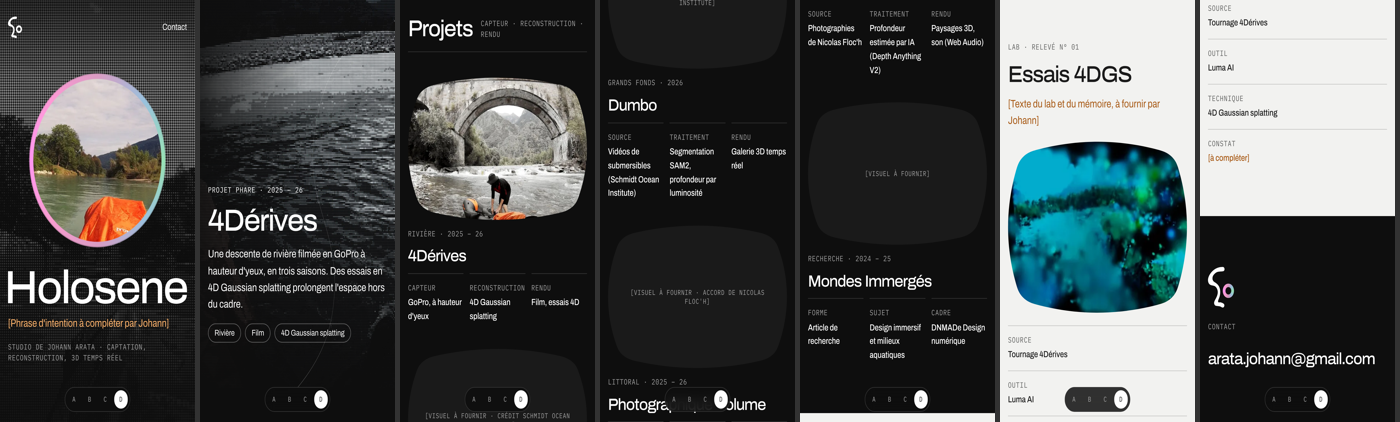
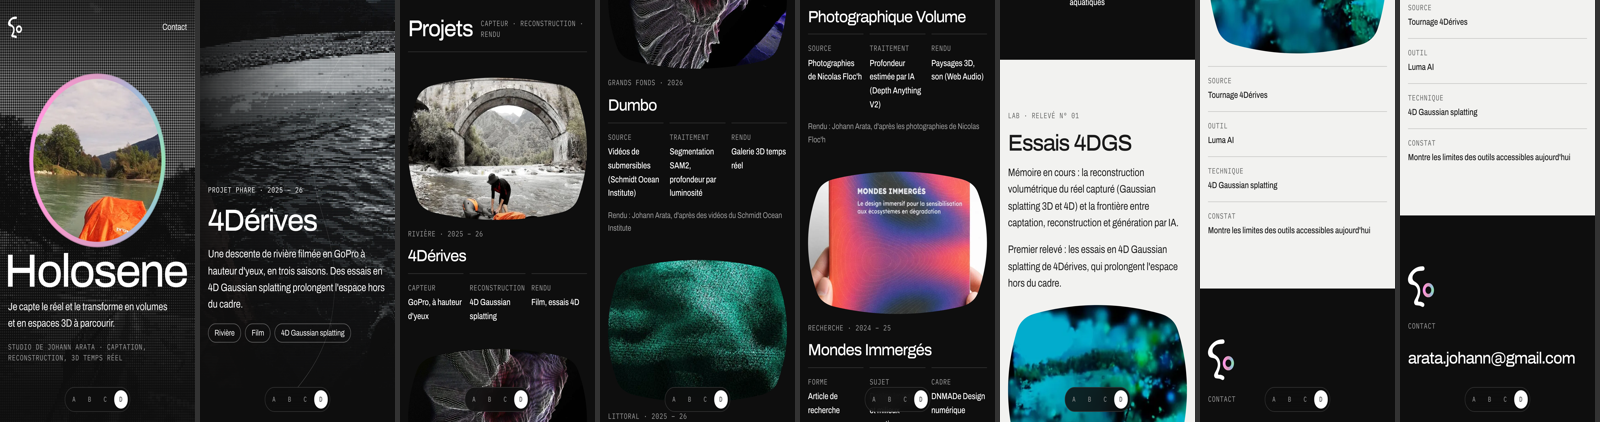
Direction D : visuels de Dumbo, Photographique Volume et Mondes Immergés (rendus de Johann, crédités), textes repris du portfolio
- accroche : « Je capte le réel et le transforme en volumes et en espaces 3D à parcourir. »
- lab : sujet du mémoire et constat des essais 4DGS, repris du brief et du portfolio
- lentille remontée (ne touche plus le logotype)

Claude-Session: https://claude.ai/code/session_01LKGoSoD4kwmFxj7NFBG2aN

diff --git a/design/directions/comparateur.html b/design/directions/comparateur.html
@@ -155,7 +155,7 @@ body { background: var(--deep); color: var(--grey-light); font: 400 17px/1.55 va
 .D .hero .bottom { position: absolute; left: 0; right: 0; bottom: 92px; z-index: 3; display: grid; gap: 18px; }
 .D .hero .bottom img { width: 100%; display: block; }
 .D .hero .meta { display: flex; justify-content: space-between; gap: 16px; align-items: end; }
-.D .hero .meta p.todo { max-width: 34ch; font-size: 1.05rem; }
+.D .hero .meta p.intent { max-width: 34ch; font-size: 1.05rem; color: #fff; }
 
 /* 2. projet phare : plein écran cinéma (B) */
 .D .feature { position: relative; min-height: 92svh; display: flex; align-items: flex-end; overflow: hidden; }
@@ -181,6 +181,8 @@ body { background: var(--deep); color: var(--grey-light); font: 400 17px/1.55 va
 .D .spec { display: grid; grid-template-columns: repeat(3, minmax(0, 1fr)); gap: 12px; }
 .D .spec div { border-top: 1px solid #333; padding-top: 8px; min-width: 0; }
 .D .spec b { display: block; font-weight: 500; font-size: 14px; color: #fff; }
+.D .credit { font-size: 13px; color: #a0a0a0; }
+.D .lab .intro p:not(.lbl) { max-width: 46ch; }
 
 /* 4. lab : version claire, relevé (C) */
 .D .lab { background: #f2f2f0; color: #1a1a1a; padding-block: 120px; }
@@ -215,7 +217,7 @@ body { background: var(--deep); color: var(--grey-light); font: 400 17px/1.55 va
     <header class="wrap"><img src="img/monogram-white.svg" alt="Holosene"><nav class="navd"><span>Projets</span><span>Lab</span><span>Studio</span><span>Contact</span></nav></header>
     <div class="bottom wrap">
       <img src="img/logotype-white.svg" alt="Holosene">
-      <div class="meta"><p class="todo">[Phrase d'intention à compléter par Johann]</p><p class="lbl">Studio de Johann Arata · captation, reconstruction, 3D temps réel</p></div>
+      <div class="meta"><p class="intent">Je capte le réel et le transforme en volumes et en espaces 3D à parcourir.</p><p class="lbl">Studio de Johann Arata · captation, reconstruction, 3D temps réel</p></div>
     </div>
   </section>
 
@@ -235,24 +237,24 @@ body { background: var(--deep); color: var(--grey-light); font: 400 17px/1.55 va
     <div class="grid">
       <article class="card"><div class="pic sq" style="background-image:url(img/pont.webp)"></div><p class="lbl">Rivière · 2025 – 26</p><h3 class="disp">4Dérives</h3>
         <div class="spec"><div><span class="lbl">Capteur</span><b>GoPro, à hauteur d'yeux</b></div><div><span class="lbl">Reconstruction</span><b>4D Gaussian splatting</b></div><div><span class="lbl">Rendu</span><b>Film, essais 4D</b></div></div></article>
-      <article class="card"><div class="pic sq"><span>[Visuel à fournir · crédit Schmidt Ocean Institute]</span></div><p class="lbl">Grands fonds · 2026</p><h3 class="disp">Dumbo</h3>
-        <div class="spec"><div><span class="lbl">Source</span><b>Vidéos de submersibles (Schmidt Ocean Institute)</b></div><div><span class="lbl">Traitement</span><b>Segmentation SAM2, profondeur par luminosité</b></div><div><span class="lbl">Rendu</span><b>Galerie 3D temps réel</b></div></div></article>
-      <article class="card"><div class="pic sq"><span>[Visuel à fournir · accord de Nicolas Floc'h]</span></div><p class="lbl">Littoral · 2025 – 26</p><h3 class="disp">Photographique Volume</h3>
-        <div class="spec"><div><span class="lbl">Source</span><b>Photographies de Nicolas Floc'h</b></div><div><span class="lbl">Traitement</span><b>Profondeur estimée par IA (Depth Anything V2)</b></div><div><span class="lbl">Rendu</span><b>Paysages 3D, son (Web Audio)</b></div></div></article>
-      <article class="card"><div class="pic sq"><span>[Visuel à fournir]</span></div><p class="lbl">Recherche · 2024 – 25</p><h3 class="disp">Mondes Immergés</h3>
+      <article class="card"><div class="pic sq" style="background-image:url(img/dumbo-volume.webp)"></div><p class="lbl">Grands fonds · 2026</p><h3 class="disp">Dumbo</h3>
+        <div class="spec"><div><span class="lbl">Source</span><b>Vidéos de submersibles (Schmidt Ocean Institute)</b></div><div><span class="lbl">Traitement</span><b>Segmentation SAM2, profondeur par luminosité</b></div><div><span class="lbl">Rendu</span><b>Galerie 3D temps réel</b></div></div><p class="credit">Rendu : Johann Arata, d'après des vidéos du Schmidt Ocean Institute</p></article>
+      <article class="card"><div class="pic sq" style="background-image:url(img/pv-volume.webp)"></div><p class="lbl">Littoral · 2025 – 26</p><h3 class="disp">Photographique Volume</h3>
+        <div class="spec"><div><span class="lbl">Source</span><b>Photographies de Nicolas Floc'h</b></div><div><span class="lbl">Traitement</span><b>Profondeur estimée par IA (Depth Anything V2)</b></div><div><span class="lbl">Rendu</span><b>Paysages 3D, son (Web Audio)</b></div></div><p class="credit">Rendu : Johann Arata, d'après les photographies de Nicolas Floc'h</p></article>
+      <article class="card"><div class="pic sq" style="background-image:url(img/mondes-immerges.webp);background-position:center 30%"></div><p class="lbl">Recherche · 2024 – 25</p><h3 class="disp">Mondes Immergés</h3>
         <div class="spec"><div><span class="lbl">Forme</span><b>Article de recherche</b></div><div><span class="lbl">Sujet</span><b>Design immersif et milieux aquatiques</b></div><div><span class="lbl">Cadre</span><b>DNMADe Design numérique</b></div></div></article>
     </div>
   </section>
 
   <section class="lab">
     <div class="inner wrap">
-      <div class="intro"><p class="lbl">Lab · relevé n° 01</p><h2 class="disp">Essais 4DGS</h2><p class="todo">[Texte du lab et du mémoire, à fournir par Johann]</p></div>
+      <div class="intro"><p class="lbl">Lab · relevé n° 01</p><h2 class="disp">Essais 4DGS</h2><p>Mémoire en cours : la reconstruction volumétrique du réel capturé (Gaussian splatting 3D et 4D) et la frontière entre captation, reconstruction et génération par IA.</p><p>Premier relevé : les essais en 4D Gaussian splatting de 4Dérives, qui prolongent l'espace hors du cadre.</p></div>
       <div class="win sq" role="img" aria-label="Essai de 4D Gaussian splatting sur 4Dérives"></div>
       <div class="data">
         <div><span class="lbl">Source</span><b>Tournage 4Dérives</b></div>
         <div><span class="lbl">Outil</span><b>Luma AI</b></div>
         <div><span class="lbl">Technique</span><b>4D Gaussian splatting</b></div>
-        <div><span class="lbl">Constat</span><b class="todo">[à compléter]</b></div>
+        <div><span class="lbl">Constat</span><b>Montre les limites des outils accessibles aujourd'hui</b></div>
       </div>
     </div>
   </section>

diff --git a/design/directions/d-synthese.html b/design/directions/d-synthese.html
@@ -22,7 +22,7 @@
 .D .hero .bottom { position: absolute; left: 0; right: 0; bottom: 92px; z-index: 3; display: grid; gap: 18px; }
 .D .hero .bottom img { width: 100%; display: block; }
 .D .hero .meta { display: flex; justify-content: space-between; gap: 16px; align-items: end; }
-.D .hero .meta p.todo { max-width: 34ch; font-size: 1.05rem; }
+.D .hero .meta p.intent { max-width: 34ch; font-size: 1.05rem; color: #fff; }
 
 /* 2. projet phare : plein écran cinéma (B) */
 .D .feature { position: relative; min-height: 92svh; display: flex; align-items: flex-end; overflow: hidden; }
@@ -48,6 +48,8 @@
 .D .spec { display: grid; grid-template-columns: repeat(3, minmax(0, 1fr)); gap: 12px; }
 .D .spec div { border-top: 1px solid #333; padding-top: 8px; min-width: 0; }
 .D .spec b { display: block; font-weight: 500; font-size: 14px; color: #fff; }
+.D .credit { font-size: 13px; color: #a0a0a0; }
+.D .lab .intro p:not(.lbl) { max-width: 46ch; }
 
 /* 4. lab : version claire, relevé (C) */
 .D .lab { background: #f2f2f0; color: #1a1a1a; padding-block: 120px; }
@@ -82,7 +84,7 @@
     <header class="wrap"><img src="../assets/monogram-white.svg" alt="Holosene"><nav class="navd"><span>Projets</span><span>Lab</span><span>Studio</span><span>Contact</span></nav></header>
     <div class="bottom wrap">
       <img src="../assets/logotype-white.svg" alt="Holosene">
-      <div class="meta"><p class="todo">[Phrase d'intention à compléter par Johann]</p><p class="lbl">Studio de Johann Arata · captation, reconstruction, 3D temps réel</p></div>
+      <div class="meta"><p class="intent">Je capte le réel et le transforme en volumes et en espaces 3D à parcourir.</p><p class="lbl">Studio de Johann Arata · captation, reconstruction, 3D temps réel</p></div>
     </div>
   </section>
 
@@ -102,24 +104,24 @@
     <div class="grid">
       <article class="card"><div class="pic sq" style="background-image:url(../assets/pont.webp)"></div><p class="lbl">Rivière · 2025 – 26</p><h3 class="disp">4Dérives</h3>
         <div class="spec"><div><span class="lbl">Capteur</span><b>GoPro, à hauteur d'yeux</b></div><div><span class="lbl">Reconstruction</span><b>4D Gaussian splatting</b></div><div><span class="lbl">Rendu</span><b>Film, essais 4D</b></div></div></article>
-      <article class="card"><div class="pic sq"><span>[Visuel à fournir · crédit Schmidt Ocean Institute]</span></div><p class="lbl">Grands fonds · 2026</p><h3 class="disp">Dumbo</h3>
-        <div class="spec"><div><span class="lbl">Source</span><b>Vidéos de submersibles (Schmidt Ocean Institute)</b></div><div><span class="lbl">Traitement</span><b>Segmentation SAM2, profondeur par luminosité</b></div><div><span class="lbl">Rendu</span><b>Galerie 3D temps réel</b></div></div></article>
-      <article class="card"><div class="pic sq"><span>[Visuel à fournir · accord de Nicolas Floc'h]</span></div><p class="lbl">Littoral · 2025 – 26</p><h3 class="disp">Photographique Volume</h3>
-        <div class="spec"><div><span class="lbl">Source</span><b>Photographies de Nicolas Floc'h</b></div><div><span class="lbl">Traitement</span><b>Profondeur estimée par IA (Depth Anything V2)</b></div><div><span class="lbl">Rendu</span><b>Paysages 3D, son (Web Audio)</b></div></div></article>
-      <article class="card"><div class="pic sq"><span>[Visuel à fournir]</span></div><p class="lbl">Recherche · 2024 – 25</p><h3 class="disp">Mondes Immergés</h3>
+      <article class="card"><div class="pic sq" style="background-image:url(../assets/dumbo-volume.webp)"></div><p class="lbl">Grands fonds · 2026</p><h3 class="disp">Dumbo</h3>
+        <div class="spec"><div><span class="lbl">Source</span><b>Vidéos de submersibles (Schmidt Ocean Institute)</b></div><div><span class="lbl">Traitement</span><b>Segmentation SAM2, profondeur par luminosité</b></div><div><span class="lbl">Rendu</span><b>Galerie 3D temps réel</b></div></div><p class="credit">Rendu : Johann Arata, d'après des vidéos du Schmidt Ocean Institute</p></article>
+      <article class="card"><div class="pic sq" style="background-image:url(../assets/pv-volume.webp)"></div><p class="lbl">Littoral · 2025 – 26</p><h3 class="disp">Photographique Volume</h3>
+        <div class="spec"><div><span class="lbl">Source</span><b>Photographies de Nicolas Floc'h</b></div><div><span class="lbl">Traitement</span><b>Profondeur estimée par IA (Depth Anything V2)</b></div><div><span class="lbl">Rendu</span><b>Paysages 3D, son (Web Audio)</b></div></div><p class="credit">Rendu : Johann Arata, d'après les photographies de Nicolas Floc'h</p></article>
+      <article class="card"><div class="pic sq" style="background-image:url(../assets/mondes-immerges.webp);background-position:center 30%"></div><p class="lbl">Recherche · 2024 – 25</p><h3 class="disp">Mondes Immergés</h3>
         <div class="spec"><div><span class="lbl">Forme</span><b>Article de recherche</b></div><div><span class="lbl">Sujet</span><b>Design immersif et milieux aquatiques</b></div><div><span class="lbl">Cadre</span><b>DNMADe Design numérique</b></div></div></article>
     </div>
   </section>
 
   <section class="lab">
     <div class="inner wrap">
-      <div class="intro"><p class="lbl">Lab · relevé n° 01</p><h2 class="disp">Essais 4DGS</h2><p class="todo">[Texte du lab et du mémoire, à fournir par Johann]</p></div>
+      <div class="intro"><p class="lbl">Lab · relevé n° 01</p><h2 class="disp">Essais 4DGS</h2><p>Mémoire en cours : la reconstruction volumétrique du réel capturé (Gaussian splatting 3D et 4D) et la frontière entre captation, reconstruction et génération par IA.</p><p>Premier relevé : les essais en 4D Gaussian splatting de 4Dérives, qui prolongent l'espace hors du cadre.</p></div>
       <div class="win sq" role="img" aria-label="Essai de 4D Gaussian splatting sur 4Dérives"></div>
       <div class="data">
         <div><span class="lbl">Source</span><b>Tournage 4Dérives</b></div>
         <div><span class="lbl">Outil</span><b>Luma AI</b></div>
         <div><span class="lbl">Technique</span><b>4D Gaussian splatting</b></div>
-        <div><span class="lbl">Constat</span><b class="todo">[à compléter]</b></div>
+        <div><span class="lbl">Constat</span><b>Montre les limites des outils accessibles aujourd'hui</b></div>
       </div>
     </div>
   </section>
